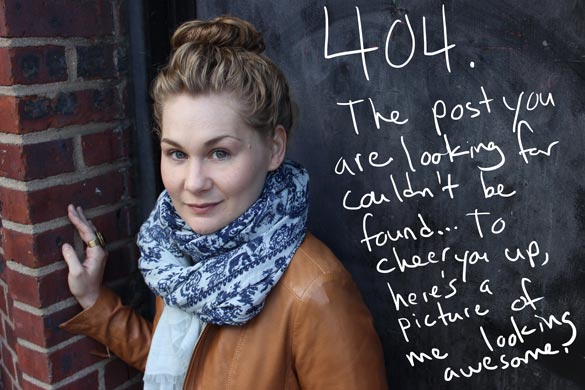
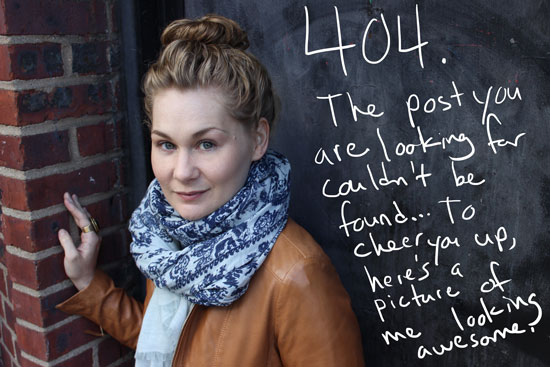
Updated images, small style tweaks.

diff --git a/style.css b/style.css
@@ -152,6 +152,12 @@ body a:hover {
     margin-top: 10px;
 }
 
+/*For images at the begging of the page that need to be top-aligned*/
+.page-top-padded {
+    margin-bottom: 20px;
+    margin-top: 15px;
+}
+
 .blog-title a:hover {
     color: #F50C75;
 }

diff --git a/404.php b/404.php
@@ -9,7 +9,7 @@
         </div>
 
         <div class="col-md-6 col-sm-6 col-xs-12">
-            <img width='100%' src="<?php bloginfo('template_directory'); ?>/img/not-found.jpg" />
+            <img class='page-top-padded' width='100%' src="<?php bloginfo('template_directory'); ?>/img/not-found.jpg" />
         </div>
 
     </div>
